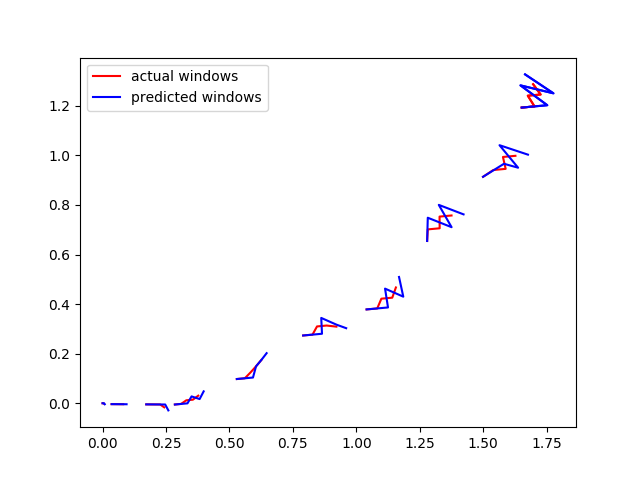
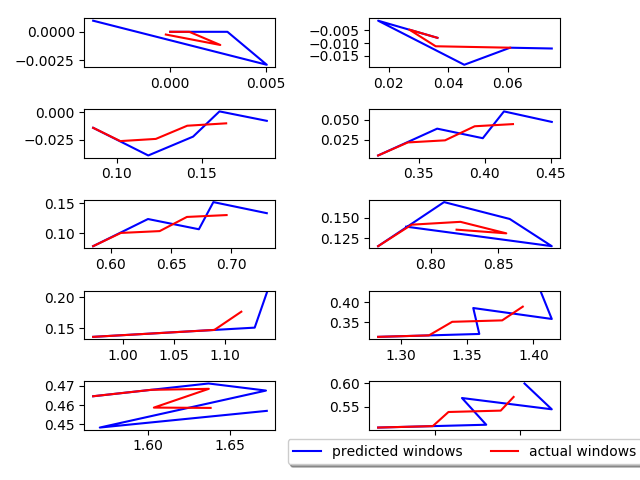
windows graphs separated into subplots

diff --git a/simulation.py b/simulation.py
@@ -7,6 +7,7 @@ import matplotlib as mpl
 import keyboard
 import numpy as np
 import random
+from math import sqrt
 
 
 p_true = [0.5, 0.5]
@@ -141,8 +142,8 @@ def main():
     windows = create_windows(states, w, delta_f_list, a_list, True)
     predicted_windows = predict_windows(windows, states)
 
-    draw_windows(windows, predicted_windows)
-    draw_tragetory(x,y, predicted_x, predicted_y)
+    draw_windows(windows, predicted_windows, name='windows')
+    draw_tragetory(x,y, predicted_x, predicted_y, name = 'tragetory')
 
 def draw_tragetory(x,y,x_pred, y_pred, name = 'tragetory'):
     plt.plot(x_pred, y_pred, color='blue', label='predicted trajectory')
@@ -161,19 +162,22 @@ def draw_windows(windows, predicted_windows, name='windows'):
     x_pred_splits = [x_pred[i*w:(i+1)*w] for i in range(len(x_pred)//w)]
     y_pred_splits = [y_pred[i*w:(i+1)*w] for i in range(len(y_pred)//w)]
 
-    for x_actual_val, y_actual_val, x_pred_val, y_pred_val in zip(x_actual_splits,
-                                                                  y_actual_splits, x_pred_splits, y_pred_splits):
-        plt.plot(x_actual_val, y_actual_val, color='red')
-        plt.plot(x_pred_val, y_pred_val, color='blue')
-    else:
-        plt.plot(x_actual_val, y_actual_val,
-                 color='red', label='actual windows')
-        plt.plot(x_pred_val, y_pred_val, color='blue',
-                 label='predicted windows')
-    plt.legend(loc='best')
+    nrows = len(x_pred_splits)
+    # ax = plt.subplots(nrows=nrows, ncols=1)[1]
+    ax = plt.subplots(nrows=nrows // 2, ncols=2)[1]
+    i = 0
+    for row in ax:
+        for col in row:
+            col.plot(x_pred_splits[i],y_pred_splits[i], color='blue', label='predicted windows')
+            col.plot(x_actual_splits[i],y_actual_splits[i], color='red', label='actual windows')
+            i +=1
+    
+    plt.legend(loc='upper center', bbox_to_anchor=(0.5, -0.05),fancybox=True, shadow=True, ncol=2)
+    
+    plt.tight_layout()
+    
     plt.savefig(name)
     plt.close()
-
 
 
 def extract_stages(windows, n, predicted_windows):
@@ -233,9 +237,7 @@ def predict_windows(windows, states):
         predicted_states = np.array(predicted_states)
         # compute cost
         states_pred = predicted_states[:, 0]  # set all states
-        # print(states_pred.shape)
-        # print(state_considered.shape)
-        # print('.................')
+
         scoring_array.append(cost_function(states_pred, states[i:w+i].T))
 
         predicted_windows.append(predicted_states)
